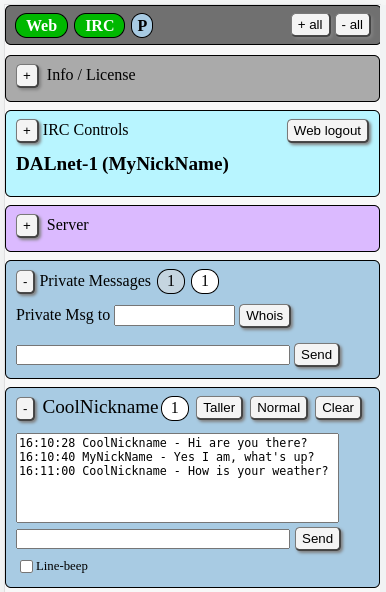
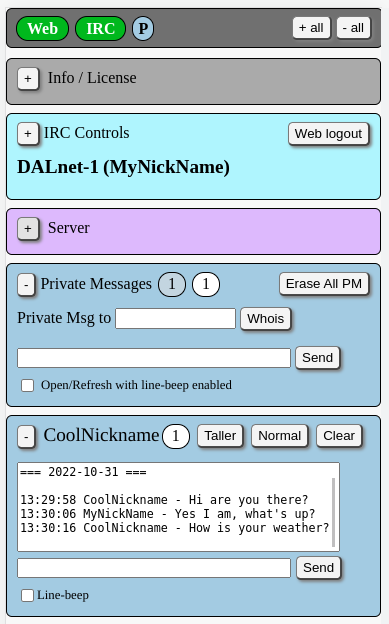
Added global default private message checkbox for audio beep sound

diff --git a/secure-minify/js/webclient.js b/secure-minify/js/webclient.js
@@ -47,8 +47,9 @@ beep2.play().catch((function(error){if('NotAllowedError'===error.name);else cons
 beep3.play().catch((function(error){if('NotAllowedError'===error.name)console.info('playBeep3Sound() '+audioPromiseErrorStr);else console.error(error)}));beep3InhibitTimer=5}}
 function areBeepsConfigured(){let isAnyBeepEnabled=false;let beepEnableChanArray=null;beepEnableChanArray=JSON.parse(window.localStorage.getItem('beepEnableChanArray'))
 ;if(beepEnableChanArray&&Array.isArray(beepEnableChanArray))if(beepEnableChanArray.length>0)for(let i=0;i<beepEnableChanArray.length;i++){if(beepEnableChanArray[i].beep1)isAnyBeepEnabled=true
-;if(beepEnableChanArray[i].beep2)isAnyBeepEnabled=true;if(beepEnableChanArray[i].beep3)isAnyBeepEnabled=true}return isAnyBeepEnabled}function userInitiatedAudioPlay(){
-document.getElementById('enableAudioButton').setAttribute('hidden','');if(areBeepsConfigured()){playBeep2Sound();setTimeout(playBeep1Sound,500)}}
+;if(beepEnableChanArray[i].beep2)isAnyBeepEnabled=true;if(beepEnableChanArray[i].beep3)isAnyBeepEnabled=true}let beepEnableObj=null;beepEnableObj=JSON.parse(window.localStorage.getItem('privMsgBeep'))
+;if(beepEnableObj&&'object'===typeof beepEnableObj)if(beepEnableObj.beep)isAnyBeepEnabled=true;return isAnyBeepEnabled}function userInitiatedAudioPlay(){
+document.getElementById('enableAudioButton').setAttribute('hidden','');if(areBeepsConfigured()){setTimeout(playBeep2Sound,100);setTimeout(playBeep3Sound,600);setTimeout(playBeep1Sound,950)}}
 document.getElementById('enableAudioButton').addEventListener('click',userInitiatedAudioPlay);if(areBeepsConfigured())document.getElementById('enableAudioButton').removeAttribute('hidden')
 ;const errorExpireSeconds=5;let errorRemainSeconds=0;function clearError(){const errorDivEl=document.getElementById('errorDiv');errorDivEl.setAttribute('hidden','')
 ;const errorContentDivEl=document.getElementById('errorContentDiv');while(errorContentDivEl.firstChild)errorContentDivEl.removeChild(errorContentDivEl.firstChild);errorRemainSeconds=0}
@@ -783,9 +784,11 @@ document.getElementById('privMsgUnreadExistIcon').addEventListener('click',handl
 ;activityIconInhibitTimer=activityIconInhibitTimerValue}privMsgBottomDivEl.addEventListener('click',handlePrivMsgBottomDivElClick);function updateVisibility(){
 if(privMsgSectionEl.hasAttribute('beep1-enabled'))privMsgBeep1CBInputEl.checked=true;else privMsgBeep1CBInputEl.checked=false}function handlePrivMsgBeep1CBInputElClick(event){
 if(privMsgSectionEl.hasAttribute('beep1-enabled'))privMsgSectionEl.removeAttribute('beep1-enabled');else{privMsgSectionEl.setAttribute('beep1-enabled','');playBeep3Sound()}updateVisibility()}
-privMsgBeep1CBInputEl.addEventListener('click',handlePrivMsgBeep1CBInputElClick);function handleCancelBeepSounds(event){privMsgSectionEl.removeAttribute('beep1-enabled')}
-document.addEventListener('cancel-beep-sounds',handleCancelBeepSounds);function handlePrivateMessage(event){function _addText(text){privMsgTextAreaEl.value+=cleanFormatting(text)+'\n'
-;if(!webState.cacheReloadInProgress)privMsgTextAreaEl.scrollTop=privMsgTextAreaEl.scrollHeight}const parsedMessage=event.detail.parsedMessage
+privMsgBeep1CBInputEl.addEventListener('click',handlePrivMsgBeep1CBInputElClick);function initPrivMsgBeep1CB(){if(document.getElementById('privMsgSectionDiv').hasAttribute('beep-enabled')){
+privMsgSectionEl.setAttribute('beep1-enabled','');if(!webState.cacheReloadInProgress)playBeep3Sound()}else privMsgSectionEl.removeAttribute('beep1-enabled');updateVisibility()}initPrivMsgBeep1CB()
+;function handleCancelBeepSounds(event){privMsgSectionEl.removeAttribute('beep1-enabled')}document.addEventListener('cancel-beep-sounds',handleCancelBeepSounds);function handlePrivateMessage(event){
+function _addText(text){privMsgTextAreaEl.value+=cleanFormatting(text)+'\n';if(!webState.cacheReloadInProgress)privMsgTextAreaEl.scrollTop=privMsgTextAreaEl.scrollHeight}
+const parsedMessage=event.detail.parsedMessage
 ;if(parsedMessage.params[0].toLowerCase()===name.toLowerCase()||parsedMessage.params[0].toLowerCase()!==name.toLowerCase()&&parsedMessage.nick.toLowerCase()===name.toLowerCase())if(privMsgSectionEl.getAttribute('lastDate')!==parsedMessage.datestamp){
 privMsgSectionEl.setAttribute('lastDate',parsedMessage.datestamp);privMsgTextAreaEl.value+='\n=== '+parsedMessage.datestamp+' ===\n\n'}switch(parsedMessage.command){case'PRIVMSG':
 if(parsedMessage.nick===ircState.nickName){if(parsedMessage.params[0].toLowerCase()===name.toLowerCase()){
@@ -831,22 +834,29 @@ _buildPrivateMessageText()}));document.addEventListener('erase-before-reload',(f
 ;document.getElementById('privMsgWindowCountDiv').setAttribute('hidden','');document.getElementById('privMsgCountDiv').textContent='0'
 ;document.getElementById('privMsgCountDiv').setAttribute('hidden','');document.getElementById('privMsgUnreadExistIcon').setAttribute('hidden','')
 ;document.getElementById('privMsgHeaderHiddenDiv').setAttribute('hidden','');document.getElementById('privMsgMainHiddenDiv').setAttribute('hidden','')
-;document.getElementById('privMsgMainHiddenButton').textContent='+'}));document.getElementById('privMsgHeaderHiddenDiv').addEventListener('click',(function(){const fetchURL=webServerUrl+'/irc/erase'
-;const fetchOptions={method:'POST',headers:{'CSRF-Token':csrfToken,'Content-type':'application/json',Accept:'application/json'},body:JSON.stringify({erase:'PRIVMSG'})}
-;fetch(fetchURL,fetchOptions).then(response=>{if(response.ok)return response.json();else throw new Error('Fetch status '+response.status+' '+response.statusText)}).then(responseJson=>{
-if(responseJson.error)showError(responseJson.message)}).catch(error=>{showError(error.toString())})}));document.getElementById('whoisButton').addEventListener('click',(function(){
-if(document.getElementById('pmNickNameInputId').value.length>0){showRawMessageWindow();const message='WHOIS '+document.getElementById('pmNickNameInputId').value;_sendIrcServerMessage(message)
-;showRawMessageWindow()}else showError('Input required')}));document.getElementById('privMsgMainHiddenButton').addEventListener('click',(function(){
-if(document.getElementById('privMsgMainHiddenDiv').hasAttribute('hidden')){document.getElementById('privMsgHeaderHiddenDiv').removeAttribute('hidden')
-;document.getElementById('privMsgMainHiddenDiv').removeAttribute('hidden');document.getElementById('privMsgMainHiddenButton').textContent='-'
-;document.dispatchEvent(new CustomEvent('priv-msg-show-all',{bubbles:true}))}else{document.getElementById('privMsgHeaderHiddenDiv').setAttribute('hidden','')
-;document.getElementById('privMsgMainHiddenDiv').setAttribute('hidden','');document.getElementById('privMsgMainHiddenButton').textContent='+'
-;document.dispatchEvent(new CustomEvent('priv-msg-hide-all',{bubbles:true}))}}));document.addEventListener('update-pm-count',(function(event){let totalCount=0
-;document.querySelectorAll('.pm-count-class').forEach((function(el){totalCount+=parseInt(el.textContent)}));document.getElementById('privMsgCountDiv').textContent=totalCount.toString()
-;if(totalCount>0){document.getElementById('privMsgCountDiv').removeAttribute('hidden');document.getElementById('privMsgUnreadExistIcon').removeAttribute('hidden')}else{
-document.getElementById('privMsgCountDiv').setAttribute('hidden','');document.getElementById('privMsgUnreadExistIcon').setAttribute('hidden','')}}))
-;document.getElementById('closeNoticeButton').addEventListener('click',(function(){webState.noticeOpen=false;updateDivVisibility()}))
-;document.getElementById('noticeEraseButton').addEventListener('click',(function(){document.getElementById('noticeSectionDiv').setAttribute('lastDate','0000-00-00')
+;document.getElementById('privMsgMainHiddenButton').textContent='+'}));function loadBeepEnable(){document.getElementById('openPmWithBeepCheckbox').checked=false
+;document.getElementById('privMsgSectionDiv').removeAttribute('beep-enabled');let beepEnableObj=null;beepEnableObj=JSON.parse(window.localStorage.getItem('privMsgBeep'))
+;if(beepEnableObj&&'object'===typeof beepEnableObj)if(beepEnableObj.beep){document.getElementById('openPmWithBeepCheckbox').checked=true
+;document.getElementById('privMsgSectionDiv').setAttribute('beep-enabled','')}else{document.getElementById('openPmWithBeepCheckbox').checked=false
+;document.getElementById('privMsgSectionDiv').removeAttribute('beep-enabled')}}loadBeepEnable();function handleOpenWithBeepCBClick(event){const now=unixTimestamp()
+;if(document.getElementById('openPmWithBeepCheckbox').checked){document.getElementById('privMsgSectionDiv').setAttribute('beep-enabled','');window.localStorage.setItem('privMsgBeep',JSON.stringify({
+timestamp:now,beep:true}));playBeep3Sound()}else{document.getElementById('privMsgSectionDiv').removeAttribute('beep-enabled');window.localStorage.setItem('privMsgBeep',JSON.stringify({timestamp:now,
+beep:false}))}}document.getElementById('openPmWithBeepCheckbox').addEventListener('click',handleOpenWithBeepCBClick)
+;document.getElementById('privMsgHeaderHiddenDiv').addEventListener('click',(function(){const fetchURL=webServerUrl+'/irc/erase';const fetchOptions={method:'POST',headers:{'CSRF-Token':csrfToken,
+'Content-type':'application/json',Accept:'application/json'},body:JSON.stringify({erase:'PRIVMSG'})};fetch(fetchURL,fetchOptions).then(response=>{
+if(response.ok)return response.json();else throw new Error('Fetch status '+response.status+' '+response.statusText)}).then(responseJson=>{if(responseJson.error)showError(responseJson.message)
+}).catch(error=>{showError(error.toString())})}));document.getElementById('whoisButton').addEventListener('click',(function(){if(document.getElementById('pmNickNameInputId').value.length>0){
+showRawMessageWindow();const message='WHOIS '+document.getElementById('pmNickNameInputId').value;_sendIrcServerMessage(message);showRawMessageWindow()}else showError('Input required')}))
+;document.getElementById('privMsgMainHiddenButton').addEventListener('click',(function(){if(document.getElementById('privMsgMainHiddenDiv').hasAttribute('hidden')){
+document.getElementById('privMsgHeaderHiddenDiv').removeAttribute('hidden');document.getElementById('privMsgMainHiddenDiv').removeAttribute('hidden')
+;document.getElementById('privMsgMainHiddenButton').textContent='-';document.dispatchEvent(new CustomEvent('priv-msg-show-all',{bubbles:true}))}else{
+document.getElementById('privMsgHeaderHiddenDiv').setAttribute('hidden','');document.getElementById('privMsgMainHiddenDiv').setAttribute('hidden','')
+;document.getElementById('privMsgMainHiddenButton').textContent='+';document.dispatchEvent(new CustomEvent('priv-msg-hide-all',{bubbles:true}))}}))
+;document.addEventListener('update-pm-count',(function(event){let totalCount=0;document.querySelectorAll('.pm-count-class').forEach((function(el){totalCount+=parseInt(el.textContent)}))
+;document.getElementById('privMsgCountDiv').textContent=totalCount.toString();if(totalCount>0){document.getElementById('privMsgCountDiv').removeAttribute('hidden')
+;document.getElementById('privMsgUnreadExistIcon').removeAttribute('hidden')}else{document.getElementById('privMsgCountDiv').setAttribute('hidden','')
+;document.getElementById('privMsgUnreadExistIcon').setAttribute('hidden','')}}));document.getElementById('closeNoticeButton').addEventListener('click',(function(){webState.noticeOpen=false
+;updateDivVisibility()}));document.getElementById('noticeEraseButton').addEventListener('click',(function(){document.getElementById('noticeSectionDiv').setAttribute('lastDate','0000-00-00')
 ;document.getElementById('noticeMessageDisplay').setAttribute('rows','5');const fetchURL=webServerUrl+'/irc/erase';const fetchOptions={method:'POST',headers:{'CSRF-Token':csrfToken,
 'Content-type':'application/json',Accept:'application/json'},body:JSON.stringify({erase:'NOTICE'})};fetch(fetchURL,fetchOptions).then(response=>{
 if(response.ok)return response.json();else throw new Error('Fetch status '+response.status+' '+response.statusText)}).then(responseJson=>{if(responseJson.error)showError(responseJson.message)

diff --git a/secure-minify/webclient.html b/secure-minify/webclient.html
@@ -93,10 +93,11 @@ class="aa-section-div color-pm" id="privMsgSectionDiv"><div class="head-flex"><d
 class="pm-window-count" id="privMsgWindowCountDiv" hidden>0</div><div class="message-count" id="privMsgCountDiv" hidden>0</div></div></div><div class="head-right"><div id="privMsgHeaderHiddenDiv" 
 hidden><button>Erase All PM</button></div></div></div><div id="privMsgMainHiddenDiv" hidden><div class="vh10"></div><div class="button-div"><div class="input-label-left">Private Msg to</div><input 
 type="text" id="pmNickNameInputId" size="12" value=""> <button id="whoisButton">Whois</button></div><div class="vh10"></div><div class="button-div"><textarea class="va-middle" id="userPrivMsgInputId" 
-cols="83" rows="1"></textarea> <button class="va-middle" id="UserPrivMsgSendButton">Send</button></div></div></div><div id="privateMessageContainerDiv"></div><div class="aa-section-div color-channel" 
-id="channelMenuDiv"><div><button id="ircChannelsMainHiddenButton">+</button> <span>IRC Channels</span><div class="channel-window-count" id="activeChannelCount">0</div><div class="message-count" 
-id="channelUnreadCountDiv" hidden>0</div></div><div id="ircChannelsMainHiddenDiv"><div class="vh10"></div><div class="button-div"><textarea class="va-middle" id="newChannelNameInputId" cols="20" 
-rows="1"></textarea> <button class="va-middle" id="newChannelButton" class="rm20">Join Channel</button></div><div class="button-div" id="channelJoinButtonContainer"></div></div></div><div 
-id="channelContainerDiv"></div></div></div><div id="webDisconnectedVisibleDiv" hidden><div class="reconnect-div" id="reconnectDivId"><h2>Disconnected from Web Server</h2><div class="button-div">
-<button id="manualWebSocketReconnectButton">Reconnect to Web Site</button> <button id="stopWebSocketReconnectButton">Stop</button></div><pre class="reconnect-status-div" id="reconnectStatusDiv"></pre>
-</div></div></div><div id="rulerDiv"></div></body></html>
+cols="83" rows="1"></textarea> <button class="va-middle" id="UserPrivMsgSendButton">Send</button></div><div class="button-div"><input class="pm-cb-cb" type="checkbox" id="openPmWithBeepCheckbox"> 
+<span class="pm-cb-span">Open/Refresh with line-beep enabled</span></div></div></div><div id="privateMessageContainerDiv"></div><div class="aa-section-div color-channel" id="channelMenuDiv"><div>
+<button id="ircChannelsMainHiddenButton">+</button> <span>IRC Channels</span><div class="channel-window-count" id="activeChannelCount">0</div><div class="message-count" id="channelUnreadCountDiv" 
+hidden>0</div></div><div id="ircChannelsMainHiddenDiv"><div class="vh10"></div><div class="button-div"><textarea class="va-middle" id="newChannelNameInputId" cols="20" rows="1"></textarea> <button 
+class="va-middle" id="newChannelButton" class="rm20">Join Channel</button></div><div class="button-div" id="channelJoinButtonContainer"></div></div></div><div id="channelContainerDiv"></div></div>
+</div><div id="webDisconnectedVisibleDiv" hidden><div class="reconnect-div" id="reconnectDivId"><h2>Disconnected from Web Server</h2><div class="button-div"><button 
+id="manualWebSocketReconnectButton">Reconnect to Web Site</button> <button id="stopWebSocketReconnectButton">Stop</button></div><pre class="reconnect-status-div" id="reconnectStatusDiv"></pre></div>
+</div></div><div id="rulerDiv"></div></body></html>

diff --git a/secure/js/webclient07.js b/secure/js/webclient07.js
@@ -579,6 +579,29 @@ function createPrivateMessageEl (name, parsedMessage) {
   };
   privMsgBeep1CBInputEl.addEventListener('click', handlePrivMsgBeep1CBInputElClick);
 
+  // ----------------------------------
+  // On creating a new PM chat element
+  // initialize the audio line-beep setting
+  //
+  // Note, reloading from cache destroys and creates
+  // new PM elements, and will re-initialize
+  // ----------------------------------
+  function initPrivMsgBeep1CB () {
+    // Check the global setting
+    if (document.getElementById('privMsgSectionDiv').hasAttribute('beep-enabled')) {
+      // case of enabled globally, enable for new/refreshed element
+      privMsgSectionEl.setAttribute('beep1-enabled', '');
+      if (!webState.cacheReloadInProgress) {
+        playBeep3Sound();
+      }
+    } else {
+      // else disabled globally
+      privMsgSectionEl.removeAttribute('beep1-enabled');
+    }
+    updateVisibility();
+  };
+  initPrivMsgBeep1CB();
+
   // -----------------------
   // Cancel all beep sounds
   // -----------------------
@@ -900,6 +923,57 @@ document.addEventListener('erase-before-reload', function (event) {
   document.getElementById('privMsgMainHiddenDiv').setAttribute('hidden', '');
   document.getElementById('privMsgMainHiddenButton').textContent = '+';
 });
+
+// ---------------------------------------------------
+// Load Private Message beep enable from local storage
+// ---------------------------------------------------
+function loadBeepEnable () {
+  // Default disabled
+  document.getElementById('openPmWithBeepCheckbox').checked = false;
+  document.getElementById('privMsgSectionDiv').removeAttribute('beep-enabled');
+
+  let beepEnableObj = null;
+  beepEnableObj = JSON.parse(window.localStorage.getItem('privMsgBeep'));
+  if ((beepEnableObj) &&
+    (typeof beepEnableObj === 'object')) {
+    if (beepEnableObj.beep) {
+      document.getElementById('openPmWithBeepCheckbox').checked = true;
+      document.getElementById('privMsgSectionDiv').setAttribute('beep-enabled', '');
+    } else {
+      document.getElementById('openPmWithBeepCheckbox').checked = false;
+      document.getElementById('privMsgSectionDiv').removeAttribute('beep-enabled');
+    }
+  }
+}
+// do on creating new channel element
+loadBeepEnable();
+
+// ---------------------------------------
+// Event handler for open with line-beep checkbox
+// ---------------------------------------
+function handleOpenWithBeepCBClick (event) {
+  const now = unixTimestamp();
+  if (document.getElementById('openPmWithBeepCheckbox').checked) {
+    document.getElementById('privMsgSectionDiv').setAttribute('beep-enabled', '');
+    window.localStorage.setItem('privMsgBeep', JSON.stringify(
+      {
+        timestamp: now,
+        beep: true
+      }
+    ));
+    playBeep3Sound();
+  } else {
+    document.getElementById('privMsgSectionDiv').removeAttribute('beep-enabled');
+    window.localStorage.setItem('privMsgBeep', JSON.stringify(
+      {
+        timestamp: now,
+        beep: false
+      }
+    ));
+  }
+};
+document.getElementById('openPmWithBeepCheckbox')
+  .addEventListener('click', handleOpenWithBeepCBClick);
 
 // -------------------------
 // [Erase All PM] button handler

diff --git a/secure/js/webclient.js b/secure/js/webclient.js
@@ -274,6 +274,7 @@ function playBeep3Sound () {
 //
 function areBeepsConfigured () {
   let isAnyBeepEnabled = false;
+  // Beeps in channel windows
   let beepEnableChanArray = null;
   beepEnableChanArray = JSON.parse(window.localStorage.getItem('beepEnableChanArray'));
   if ((beepEnableChanArray) &&
@@ -284,6 +285,15 @@ function areBeepsConfigured () {
         if (beepEnableChanArray[i].beep2) isAnyBeepEnabled = true;
         if (beepEnableChanArray[i].beep3) isAnyBeepEnabled = true;
       }
+    }
+  }
+  // Beeps in private message windows
+  let beepEnableObj = null;
+  beepEnableObj = JSON.parse(window.localStorage.getItem('privMsgBeep'));
+  if ((beepEnableObj) &&
+    (typeof beepEnableObj === 'object')) {
+    if (beepEnableObj.beep) {
+      isAnyBeepEnabled = true;
     }
   }
   return isAnyBeepEnabled;
@@ -301,12 +311,12 @@ function userInitiatedAudioPlay () {
   document.getElementById('enableAudioButton').setAttribute('hidden', '');
   // check if beep enabled in window.localStorage
   if (areBeepsConfigured()) {
-    playBeep2Sound();
-    setTimeout(playBeep1Sound, 500);
-    // beep3 not included because it is private message and not auto-eabled.
+    setTimeout(playBeep2Sound, 100);
+    setTimeout(playBeep3Sound, 600);
+    setTimeout(playBeep1Sound, 950);
   }
 } // userInitiatedAudioPlay()
-// click event for buttion in header bar
+// click event for button in header bar
 document.getElementById('enableAudioButton').addEventListener('click', userInitiatedAudioPlay);
 // Show button to enable sound in case browser localStorage has enabled beeps
 if (areBeepsConfigured()) {

diff --git a/docs/index.html b/docs/index.html
@@ -261,14 +261,18 @@
               The white icon with the number (1) indicates 1 unread message has been received.
             </p>
             <p>
-              The checkbox at the bottom enables an audible sound beep when messages arrive.
+              The checkbox in the Private Messages window marked &quot;Open/Refresh with line-beep enabled&quot;
+              will set a global default value that is used to enable audio beep sound when a new private message is received.
+              This global setting is persisted in the browser localStorage.
+              Each nickname specific private message window can control the audio beep sounds independently.
+              However, reloading messages from cache will revert all PM windows to the global value.
             </p>
             <p>
               DCC CHAT messaging is not supported.
             </p>
           </div>
           <div class="image-photo">
-            <img src=images/private-message.png width="386" height="592"alt="Private Message image">
+            <img src=images/private-message.png width="389" height="624"alt="Private Message image">
           </div>
         </div>
 

diff --git a/docs/faq.html b/docs/faq.html
@@ -149,9 +149,13 @@
             when an IRC channel &quotZoom&quot view mode is activated. This data is used
             to automatically select IRC channel view mode as zoomed when re-opening the web page.
             <br><br>
-            3) IRC channel audio beep - The boolean flags for enable audio beep for an IRC channel
-            are saved to localStorage when the checkboxes are selected. The data is used to
-            select previous checkbox state when reloading the page.
+            3) IRC channel audio beep - A string value for the IRC channel name and a boolean flag
+            for enable audio beep for an IRC channel are saved to localStorage when the checkboxes
+            are selected. The data is used to select previous checkbox state when reloading the page.
+            <br><br>
+            4) Private message audio beep - A boolean flag used to enable audio beep 
+            when new private message windows are created.
+            The data is used to select previous checkbox state when reloading the page.
           </a></td></tr>
         </table>
 

diff --git a/secure/webclient.html b/secure/webclient.html
@@ -438,6 +438,10 @@ a raw command to the IRC server directly.
                 <textarea class="va-middle" id="userPrivMsgInputId" cols="83" rows="1" ></textarea>
                 <button class="va-middle" id="UserPrivMsgSendButton">Send</button>
               </div>
+              <div class="button-div">
+                <input class="pm-cb-cb" type="checkbox" id="openPmWithBeepCheckbox">
+                <span class="pm-cb-span">Open/Refresh with line-beep enabled</span>
+              </div>
             </div>
           </div>
 

diff --git a/CHANGELOG.md b/CHANGELOG.md
@@ -6,6 +6,30 @@ The format is based on [Keep a Changelog](https://keepachangelog.com/en/1.0.0/),
 and this project adheres to
 [Semantic Versioning](https://semver.org/spec/v2.0.0.html).
 
+## Next
+
+### Added
+
+The purpose of this change is to provide capability for an audio beep sound when
+a new private message is received prior to opening a private message window.
+
+Previously, the line-beep checkbox in a private message element was initialized to 
+not checked when a new PM was started, or when the cache was reloaded.
+A new checkbox was added to the private message parent element to 
+provide a global setting for the line-beep setting for new private message windows.
+This global setting is persisted to the web browser localStorage.
+
+Note: Refreshing data from message cache will destroy and re-create new PM elements.
+Therefore the line beep will revert to the global setting on reload. This is not optimal.
+However, simply saving a list of private message nick names to the browser localStorage
+may be a privacy issue, and was not implemented intentionally.
+
+The +Audio button which is used as the specified user interaction to enable audio playback 
+was updated to include the private message beep. Otherwise, audio playback is 
+blocked by browser policy until a user interaction occurs.
+
+The /docs folder was updated with screenshot and description.
+
 ## [v0.2.22](https://github.com/cotarr/irc-hybrid-client/releases/tag/v0.2.22) 2022-10-22
 
 ### Changed
